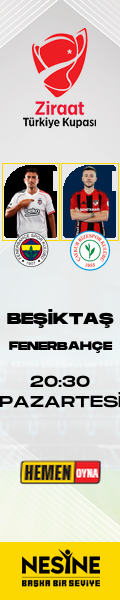
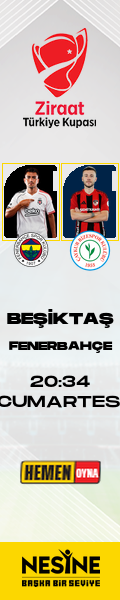
eufa 120x600 png tasarıma başlandı

Changed region(s): [[0.0, 0.6, 0.75, 0.69], [0.85, 0.63, 1.0, 0.69], [0.75, 0.66, 0.8, 0.69]]

diff --git a/backend/core/layouts/uefa/uefa_1200.py b/backend/core/layouts/uefa/uefa_1200.py
@@ -58,12 +58,15 @@ class UEFA1200(BaseLayout):
                 font_title = ImageFont.truetype(f_title, 55)
                 draw.text(((width - draw.textlength(title, font=font_title)) // 2, 30), title, font=font_title, fill="white")
             
-            day_text = data.get('day', 'PAZARTESİ').upper()
+            # Day & Hour (PSD: Saira Condensed Bold, 87.48px)
+            day_text = data.get('day', 'Pazartesi').capitalize()
             hour_text = data.get('hour', '20:30')
-            font_info = ImageFont.truetype(f_saira, 60)
+            
+            f_saira_cond = "/Users/ayseguler/Documents/vs_projeler/Karbonat/kick-grok/fonts/uefa/Saira_UltraCondensed-Bold.ttf"
+            font_info = ImageFont.truetype(f_saira_cond, 88)
             
             draw.text(((width - draw.textlength(day_text, font=font_info)) // 2, 160), day_text, font=font_info, fill="#06BF50")
-            draw.text(((width - draw.textlength(hour_text, font=font_info)) // 2, 222), hour_text, font=font_info, fill="white")
+            draw.text(((width - draw.textlength(hour_text, font=font_info)) // 2, 235), hour_text, font=font_info, fill="white")
         except Exception as e:
             print(f"Typo Error: {e}")
 
